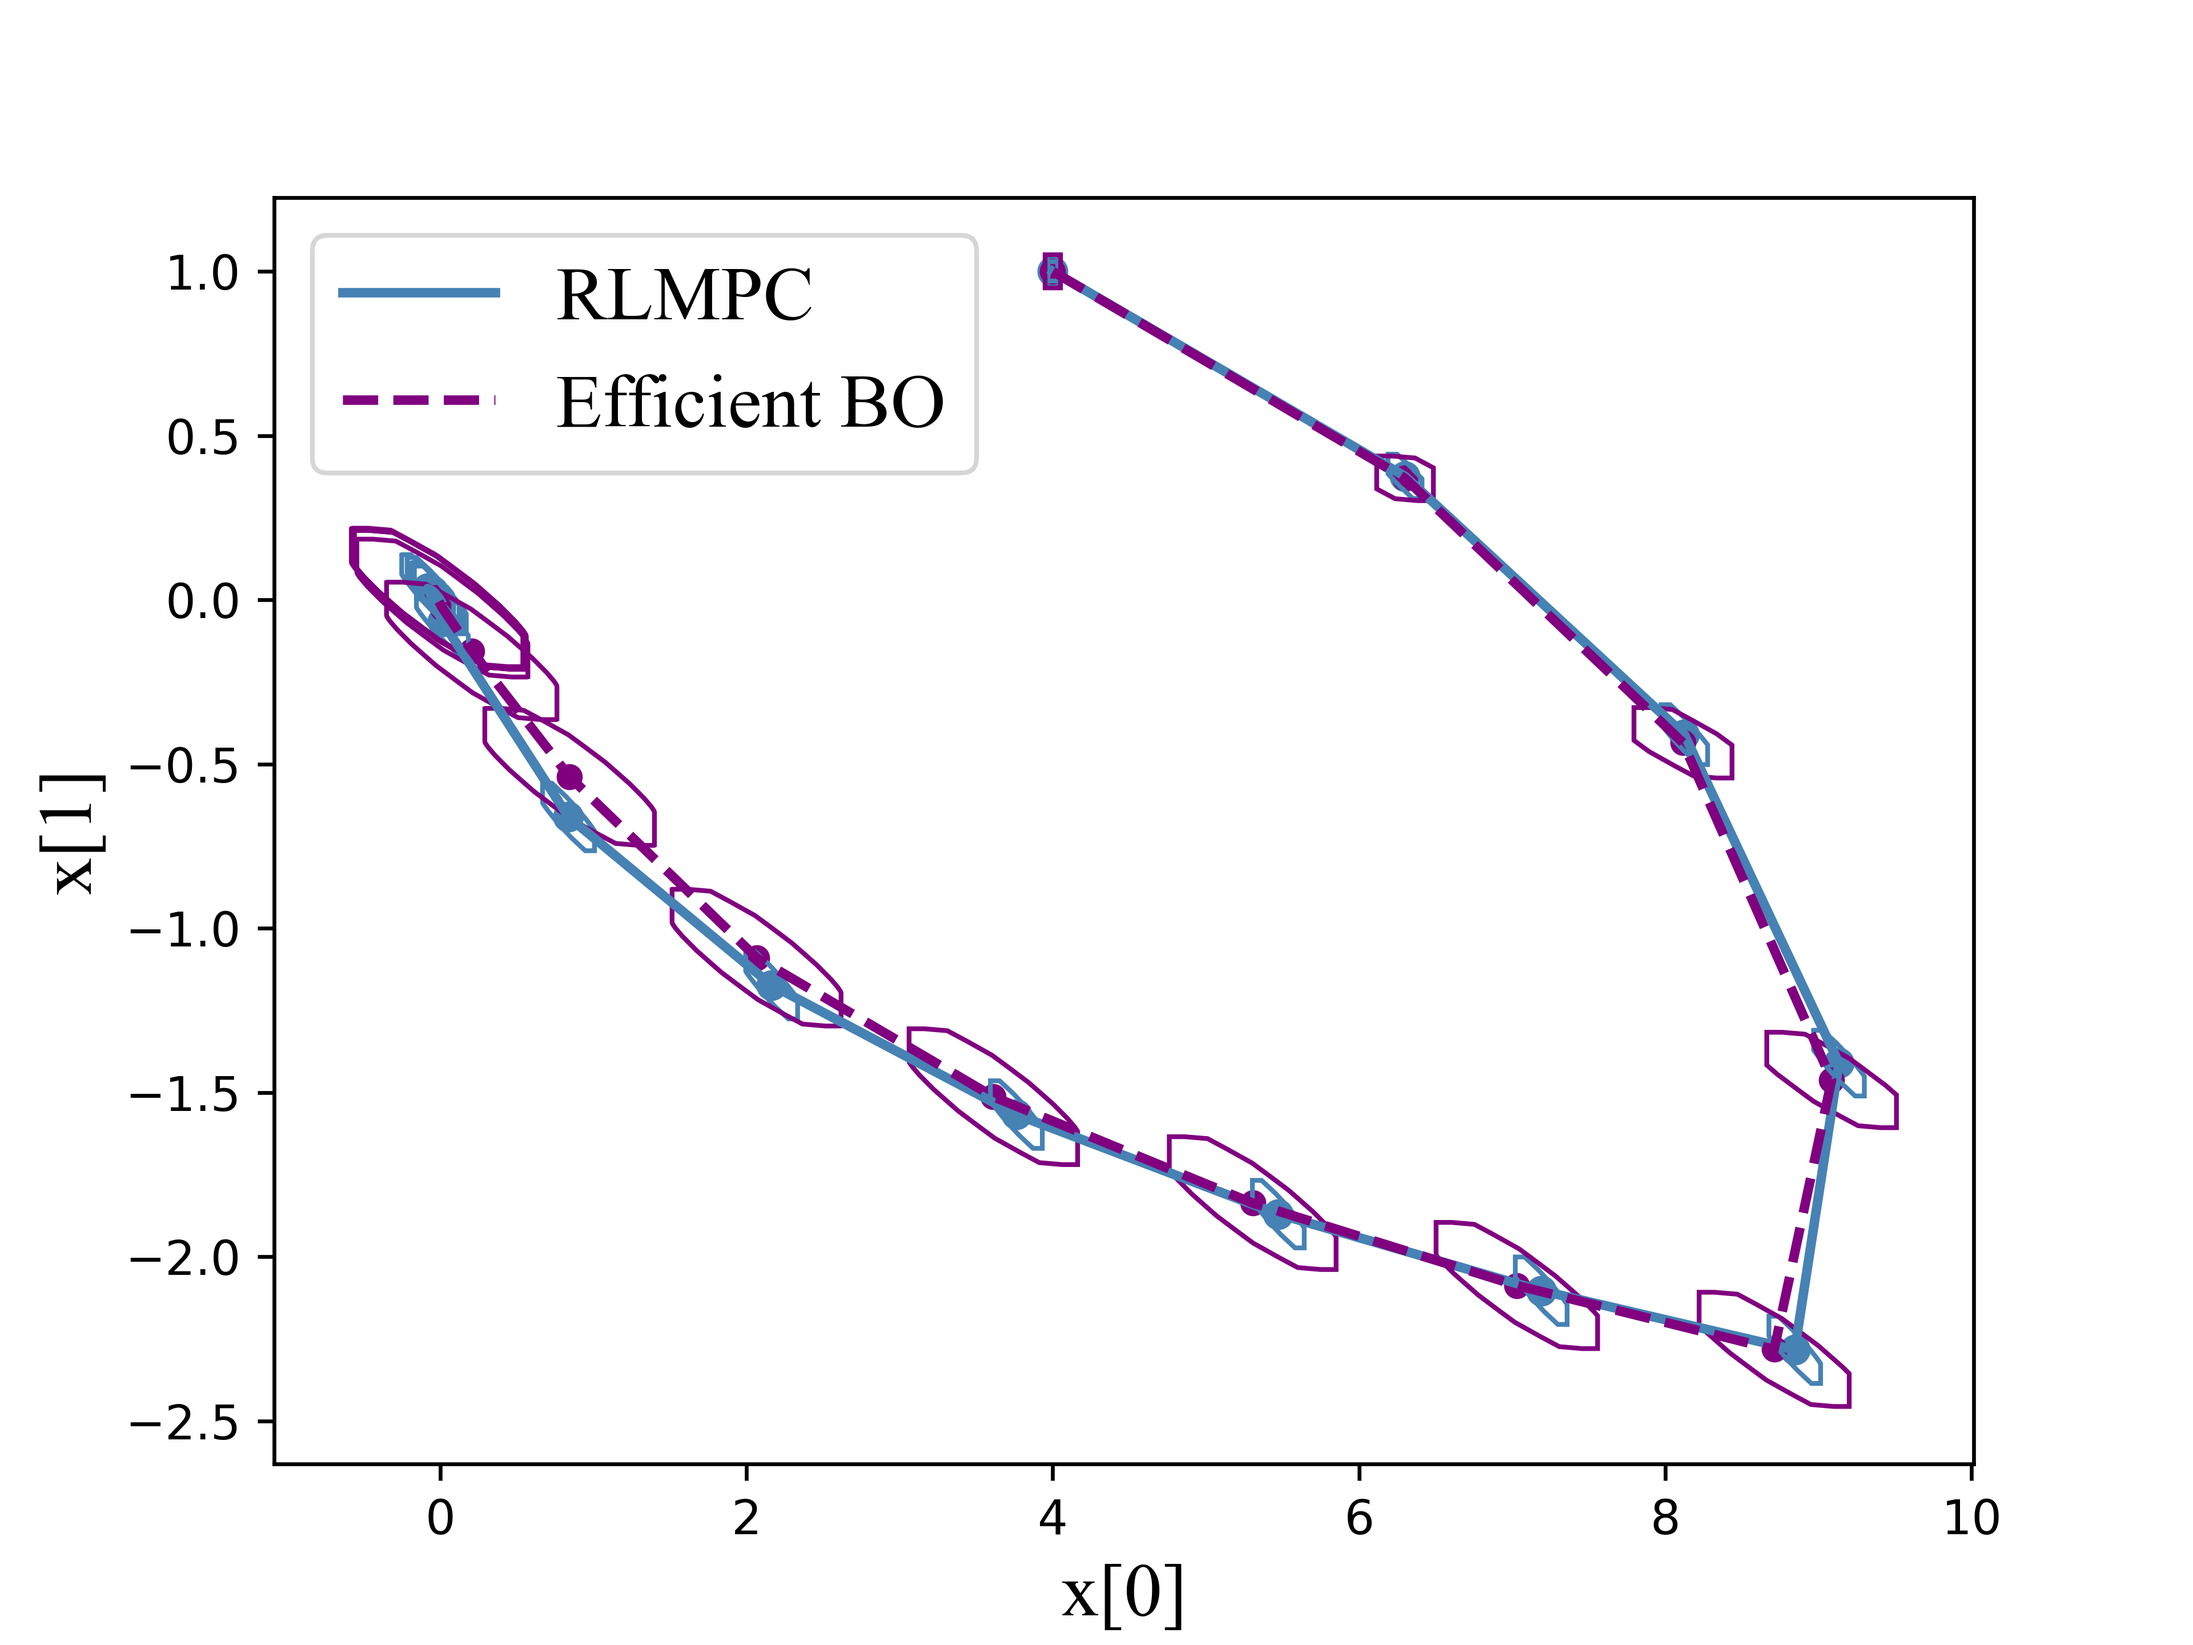
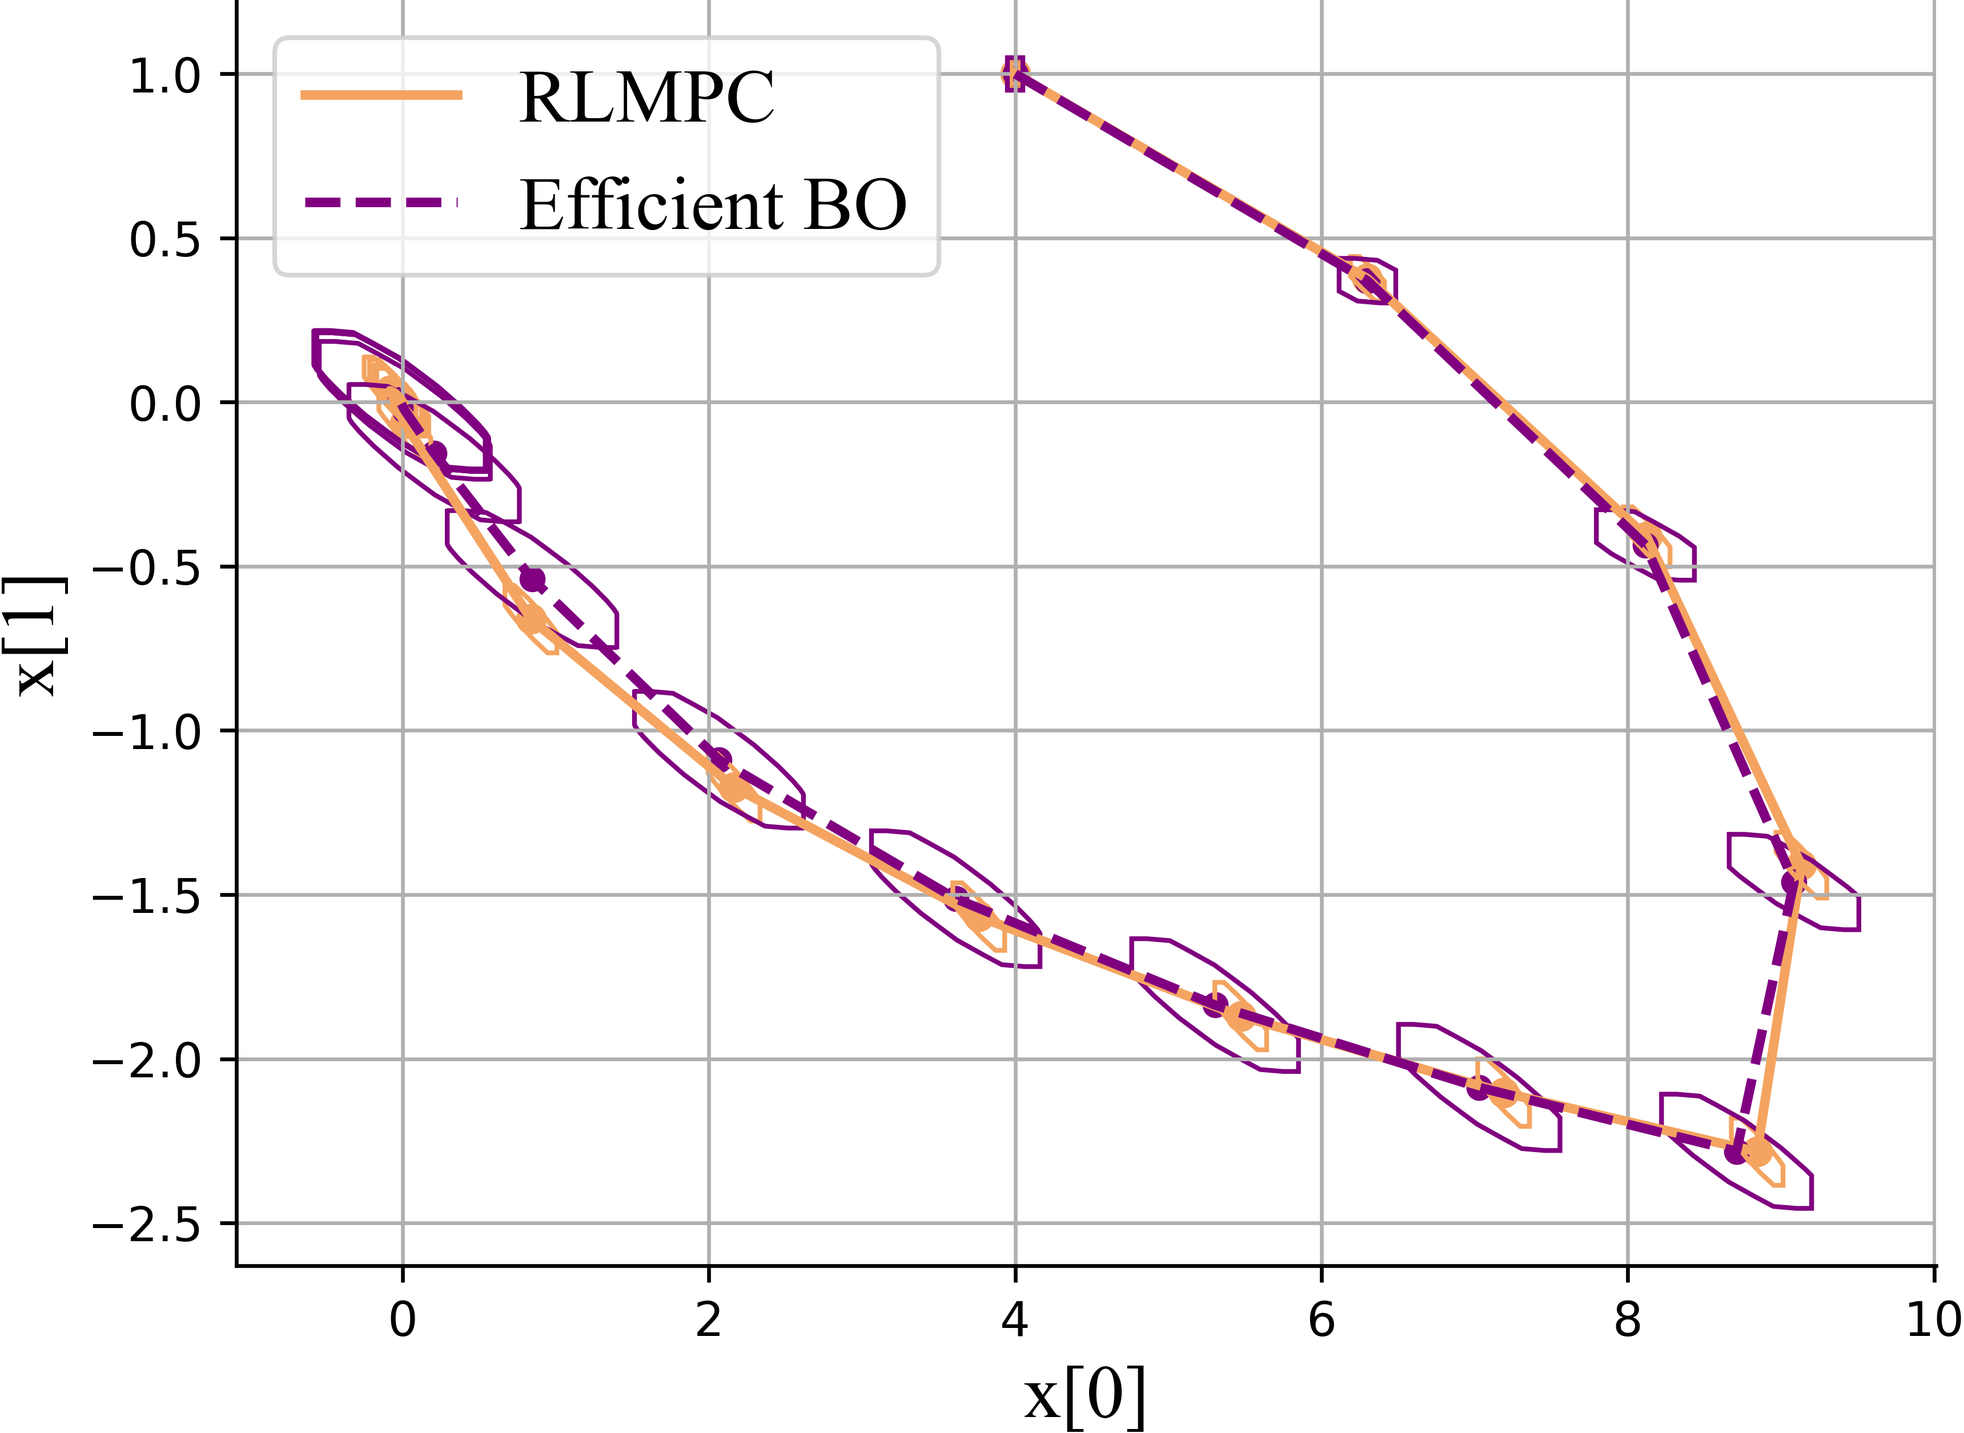
update

diff --git a/BO_LMPC/plot_tube.py b/BO_LMPC/plot_tube.py
@@ -4,7 +4,7 @@ from scipy.spatial import ConvexHull
 from mrpi.polyhedron import polyhedron, plot_polygon_list
 from matplotlib.patches import ConnectionPatch
 font = {'family': 'Times New Roman', 'size': 16}
-colors = ['steelblue', 'purple']
+colors = ['sandybrown', 'purple']
 xcl_tvbo = np.load('tvbo_3_xcl.npy')
 xcl_lmpc = np.load('own_xcl.npy')
 v_tvbo = np.load('./vertices/tvbo_2/vertices_49.npy', allow_pickle=True)
@@ -14,7 +14,10 @@ plt.plot(xcl_lmpc[:, 0], xcl_lmpc[:, 1], lw=2, label='RLMPC', color=colors[0])
 plt.scatter(xcl_lmpc[:, 0], xcl_lmpc[:, 1], lw=2, s=20, color=colors[0])
 plt.plot(xcl_tvbo[:, 0], xcl_tvbo[:, 1], lw=2, label='Efficient BO', color=colors[1], linestyle='--')
 plt.scatter(xcl_tvbo[:, 0], xcl_tvbo[:, 1], s=20, color=colors[1])
-
+plt.grid()
+ax = plt.gca()
+ax.spines['right'].set_color('none')
+ax.spines['top'].set_color('none')
 for i in range(xcl_lmpc.shape[0]):
     v_lm = v_lmpc[i]
     ax = plt.gca()
@@ -33,37 +36,46 @@ for i in range(xcl_tvbo.shape[0]):
     patch = plt.Polygon(v_tb, color=colors[1], linestyle='solid', fill=False)
     ax.add_patch(patch)
 
-
 plt.legend(prop=font)
 plt.xlabel('x[0]', font)
 plt.ylabel('x[1]', font)
-plt.savefig('./figs/x_tube.png', dpi=600)
+plt.savefig('./figs/x_tube.png', dpi=600, bbox_inches='tight', pad_inches=0)
 plt.show()
 
 ucl_tvbo = np.load('tvbo_3_ucl_true.npy')
 uv_tvbo = np.load('./vertices/tvbo_3/Kxs_49.npy', allow_pickle=True)
 ucl_lmpc = np.load('own_ucl.npy')
 uv_lm = np.load('./vertices/own/Kxs_49.npy', allow_pickle=True)
-fig, ax = plt.subplots(1, 2, figsize=[13, 5])
+fig, ax = plt.subplots(1, 2, figsize=[13, 6])
 
 lm = []
 x_lm = np.linspace(1, ucl_lmpc.shape[0], ucl_lmpc.shape[0])
 for i in range(ucl_lmpc.shape[0]):
     lm.append(np.max(uv_lm[i]))
+ax[0].scatter(x_lm, ucl_lmpc, color=colors[0], s=20)
 ax[0].errorbar(x_lm, ucl_lmpc, lm, fmt='none', ecolor=colors[0], elinewidth=2, capsize=4, label='lmpc')
-ax[0].set_title('lmpc')
-ax[0].set_xlabel('Iteration')
-ax[0].set_ylabel('u')
-
+ax[0].set_title('RLMPC', font)
+ax[0].set_xlabel('Iteration', font)
+ax[0].set_ylabel('u', font)
+ax[0].set_ylim(-1.1, 1.1)
+# ax = ax[0].gca()
+ax[0].spines['right'].set_color('none')
+ax[0].spines['top'].set_color('none')
+ax[0].grid()
 tb = []
 x_tb = np.linspace(1, ucl_tvbo.shape[0], ucl_tvbo.shape[0])
 for i in range(ucl_tvbo.shape[0]):
     tb.append(np.max(uv_tvbo[i]))
+ax[1].scatter(x_tb, ucl_tvbo, color=colors[1], s=20)
 ax[1].errorbar(x_tb, ucl_tvbo, tb, fmt='none', ecolor=colors[1], elinewidth=2, capsize=4, label='transfer learning bo')
-ax[1].set_title('transfer learning bo')
-ax[1].set_xlabel('Iteration')
-ax[1].set_ylabel('u')
-
+ax[1].set_title('Efficient BO', font)
+ax[1].set_xlabel('Iteration', font)
+ax[1].set_ylabel('u', font)
+ax[1].set_ylim(-1.1, 1.1)
+# ax = ax[1].gca()
+ax[1].spines['right'].set_color('none')
+ax[1].spines['top'].set_color('none')
+ax[1].grid()
 for i in range(5):
     p1 = (i+1, ucl_lmpc[i]+lm[i])
     p2 = (i+1, ucl_lmpc[i]-lm[i])
@@ -76,14 +88,16 @@ for i in range(5):
 
     l1 = ucl_lmpc[i] + lm[i] - ucl_tvbo[i] - tb[i]
     l2 = ucl_tvbo[i] - tb[i] - ucl_lmpc[i] + lm[i]
-    ax[1].arrow(i+1, ucl_tvbo[i]+tb[i], 0, l1, color='r')
-    ax[1].arrow(i+1, ucl_lmpc[i]+lm[i], 0, -l1, color='r')
-
-    ax[1].arrow(i+1, ucl_tvbo[i]-tb[i], 0, -l2, color='r')
-    ax[1].arrow(i+1, ucl_lmpc[i]-lm[1], 0, l2, color='r')
+    ax[1].plot([i+1, i+1], [ucl_lmpc[i]+lm[i], ucl_tvbo[i]+tb[i]], c='r', linestyle='dotted')
+    ax[1].plot([i+1, i+1], [ucl_lmpc[i]-lm[i], ucl_tvbo[i]-tb[i]], c='r', linestyle='dotted')
+    # ax[1].arrow(i+1, ucl_tvbo[i]+tb[i], 0, l1, color='r', head_width=0.2, head_length=0.0045)
+    # ax[1].arrow(i+1, ucl_lmpc[i]+lm[i], 0, -l1, color='r', head_width=0.01)
+    # #
+    # ax[1].arrow(i+1, ucl_tvbo[i]-tb[i], 0, -l2, color='r', head_width=0.01)
+    # ax[1].arrow(i+1, ucl_lmpc[i]-lm[i], 0, l2, color='r', head_width=0.01)
 # plt.plot(ucl_tvbo, label='ucl tvbo')
 # # plt.scatter(ucl_tvbo, s=10)
 # plt.legend()
-
-# plt.savefig('./figs/u_tube.png', dpi=600, bbox_inches='tight', pad_inches=0)
+plt.subplots_adjust(wspace=1.2)
+plt.savefig('./figs/u_tube.png', dpi=600, bbox_inches='tight', pad_inches=0)
 plt.show()

diff --git a/BO_LMPC/plot_shape.py b/BO_LMPC/plot_shape.py
@@ -1,0 +1,40 @@
+import numpy as np
+from FTOCP_casadi import FTOCP
+from LMPC import LMPC
+import matplotlib
+from tqdm import tqdm
+from control import dlqr
+
+matplotlib.use('TkAgg')
+import matplotlib.pyplot as plt
+import copy
+
+from objective_functions_lqr import get_params
+from args import Q, R, R_delta, compute_uncertainty, A, B, Ad, Bd
+
+import arguments
+
+n_params = 2
+length = 100
+samples = np.linspace(1, length, length)
+x = np.linspace(1, length, length)
+y = np.linspace(1, length, length)
+xx, yy = np.meshgrid(x, y)
+all_res = np.load('./all_res.npy')
+font = {'family': 'Times New Roman', 'size': 16}
+fig = plt.figure(figsize=[13, 9])
+ax = fig.add_subplot(131, projection='3d')
+ax.plot_surface(xx, yy, all_res[:, :, 0], cmap=plt.get_cmap('rainbow'))
+ax.set_title('Iteration 1', font)
+ax = fig.add_subplot(132, projection='3d')
+ax.plot_surface(xx, yy, all_res[:, :, 1], cmap=plt.get_cmap('rainbow'))
+ax.set_title('Iteration 2', font)
+ax = fig.add_subplot(133, projection='3d')
+ax.plot_surface(xx, yy, all_res[:, :, 2], cmap=plt.get_cmap('rainbow'))
+ax.set_title('Iteration 3', font)
+plt.subplots_adjust(wspace=0.6)
+plt.savefig('./figs/similarity.png', dpi=600, bbox_inches='tight', pad_inches=0)
+plt.show()
+a = 1
+
+

diff --git a/BO_LMPC/plot.py b/BO_LMPC/plot.py
@@ -83,7 +83,7 @@ tlbo_error = np.vstack((all_best[1]-tlbo_min, tlbo_max-all_best[1]))
 # plt.plot(all[1])
 # plt.plot(all[2])
 # plt.show()
-colors = ['steelblue', 'purple', 'green', 'sandybrown']
+colors = ['sandybrown', 'purple', 'green', 'steelblue']
 alpha = 0.1
 x = np.linspace(1, 30, 30)
 plt.plot(x, all_best[0], label='Generic BO', lw=2, color=colors[0])
@@ -121,3 +121,14 @@ plt.legend(prop=font)
 plt.grid()
 plt.savefig('./figs/cost.png', dpi=600)
 plt.show()
+
+n = 2
+for i in range(30):
+    print(str(i+1) + ' & ' + str(round(all_best[1, i], n)) + '(' + str(round(all_best[1, i]-tlbo_std[i], n))
+          + ', ' + str(round(all_best[1, i]+tlbo_std[i], n)) + ')'
+          + ' & ' + str(round(all_best[0, i], n)) + '(' + str(round(all_best[0, i]-bo_std[i], n))
+          + ', ' + str(round(all_best[0, i]+bo_std[i], n)) + ')' +
+          ' & ' + str(round(all_best[2, i], n)) + '(' + str(round(all_best[2, i]-direct_std[i], n))
+          + ', ' + str(round(all_best[2, i]+direct_std[i], n)) + ')' +
+          ' & ' + str(round(all_best[3, i], n)) + '(' + str(round(all_best[3, i]-unlim_std[i], n))
+          + ', ' + str(round(all_best[3, i]+unlim_std[i], n)) + ')' + ' \\\\')

diff --git a/BO_LMPC/plot_traj.py b/BO_LMPC/plot_traj.py
@@ -5,13 +5,16 @@ xcl_tvbo = np.load('tvbo_3_xcl.npy')
 xcl_lmpc = np.load('own_xcl.npy')
 v_tvbo = np.load('./vertices/tvbo_2/vertices_49.npy', allow_pickle=True)
 v_lmpc = np.load('./vertices/own/vertices_49.npy', allow_pickle=True)
-colors = ['steelblue', 'purple']
+colors = ['sandybrown', 'purple']
 plt.plot(xcl_lmpc[:, 0], xcl_lmpc[:, 1], lw=2, label='RLMPC', color=colors[0])
 plt.scatter(xcl_lmpc[:, 0], xcl_lmpc[:, 1], lw=2, s=20, color=colors[0])
-plt.plot(xcl_tvbo[:, 0], xcl_tvbo[:, 1], lw=2, label='Efficient BO', color=colors[1], linestyle='--')
+plt.plot(xcl_tvbo[:, 0], xcl_tvbo[:, 1], lw=2, label='Efficient BO', color=colors[1], linestyle='dashed')
 plt.scatter(xcl_tvbo[:, 0], xcl_tvbo[:, 1], s=20, color=colors[1])
-
+ax = plt.gca()
+ax.spines['right'].set_color('none')
+ax.spines['top'].set_color('none')
 font = {'family': 'Times New Roman', 'size': 16}
+plt.grid()
 plt.xlabel('x[0]', font)
 plt.ylabel('x[1]', font)
 plt.legend(prop=font)

diff --git a/BO_LMPC/plot_ys.py b/BO_LMPC/plot_ys.py
@@ -29,6 +29,9 @@ font = {'family': 'Times New Roman', 'size': 16}
 plt.xlabel('Iterations', font)
 plt.ylabel('Cost', font)
 plt.grid()
+ax = plt.gca()
+ax.spines['right'].set_color('none')
+ax.spines['top'].set_color('none')
 plt.legend(prop=font)
 plt.savefig('./figs/data_points.png', dpi=600, bbox_inches='tight', pad_inches=0)
 plt.show()
